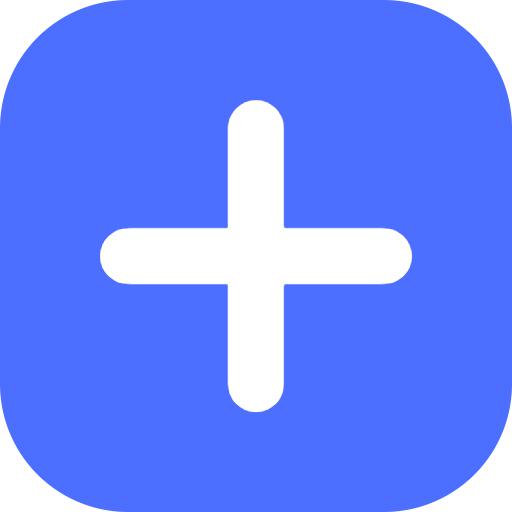
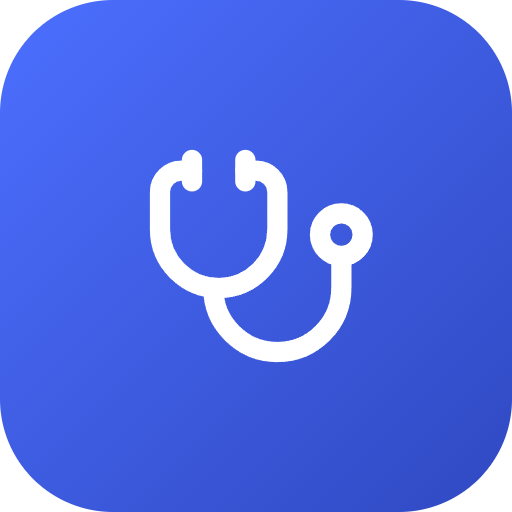
Полоса окна PWA — цветом шапки, значок — без белых полей
**Полоса заголовка.** Её рисует система, а цвет берёт из `theme-color`; там стоял фирменный
синий `#4C6FFF`, и на тёмной теме с тёплыми обоями получалась ярко-синяя планка над коричневым
приложением — единственное место окна, не имеющее к нему отношения. Статическим значением это
не чинится: у приложения две темы и подкраска под обои, то есть цвет шапки — результат настроек
врача. Поэтому цвет спрашивается у самой шапки, и второго источника правды не появляется.

Своя мета вставляется первой в `<head>` (браузер берёт первую подходящую) и только когда есть
что записать. В `index.html` остаются две меты с `media` — они отвечают за время до первой
отрисовки, за публичный сайт, где шапки приложения нет, и за строку состояния Android.

Цвет приводится к `#rrggbb`: подкрашенная обоями поверхность считается через `color-mix`, и
браузер отдаёт её записью `color(srgb …)` — спецификация такую допускает, но полагаться, что её
разберёт система, рисующая полосу окна, не стоит. Незнакомая запись не подставляется наугад.

Замеры: светлая `#ffffff`, тёмная `#242424`, «Рассвет» с подкраской — `#fcf2ef` и `#302723`;
на лендинге своей меты нет, работают объявленные.

**Значок.** Был заглушкой — белый плюс на синем квадрате — и сохранён без альфа-канала, то есть
углы за скруглением оставались непрозрачно белыми: на панели задач и во вкладке вокруг значка
стояла белая рамка. Теперь значки рисуются `scripts/make-icons.mjs` из того же стетоскопа и того
[…]

diff --git a/src/lib/themeColorMeta.ts b/src/lib/themeColorMeta.ts
@@ -1,0 +1,69 @@
+/**
+ * Полоса заголовка установленного приложения красится в цвет **шапки приложения**.
+ *
+ * У окна PWA верхнюю полосу рисует система, а цвет берёт из `theme-color`. В манифесте стоял
+ * фирменный синий — и на тёмной теме с тёплыми обоями врач получал ярко-синюю планку над
+ * коричневым приложением: единственное место окна, не имеющее к нему никакого отношения.
+ *
+ * Статическим значением это не чинится: у приложения две темы и подкраска под обои, то есть цвет
+ * шапки — не константа, а результат настроек врача. Поэтому цвет **спрашивается у самой шапки**:
+ * что бы ни насчитали тема и обои, полоса окна получает ровно то же. Двух источников правды при
+ * этом не появляется — источник один, и он же нарисован на экране.
+ *
+ * До первой отрисовки и на публичном сайте, где шапки приложения нет вовсе, работают две меты из
+ * `index.html`, объявленные через `media`: светлая и тёмная. **Своя мета вставляется первой** —
+ * браузер берёт первую подходящую по документу, — и появляется только тогда, когда есть что в неё
+ * записать: пустая или поставленная заранее, она перебила бы обе объявленные и покрасила полосу
+ * не тем.
+ */
+
+const MARK = 'data-app-theme-color';
+
+/**
+ * Цвет шапки — в `#rrggbb`, и это не косметика.
+ *
+ * Под обоями поверхность считается через `color-mix`, а такой цвет браузер возвращает записью
+ * `color(srgb 0.188 0.151 0.138)`. Спецификация `theme-color` принимает любой CSS-цвет, но
+ * полагаться на то, что его разберёт и **система**, рисующая полосу окна, не стоит: не разберёт —
+ * полоса останется прежней, и понять почему будет не по чему. Шестнадцатеричную запись понимают
+ * все.
+ *
+ * Возвращает `null` для всего, чего не знает, — и для полупрозрачного: система ждёт сплошной цвет,
+ * а шапка приложения сплошная всегда.
+ */
+export function toHexColor(color: string): string | null {
+  const hex = (r: number, g: number, b: number) =>
+    '#' + [r, g, b].map((v) => Math.max(0, Math.min(255, Math.round(v))).toString(16).padStart(2, '0')).join('');
+
+  const rgb = color.match(/^rgba?\(\s*([\d.]+)[\s,]+([\d.]+)[\s,]+([\d.]+)\s*(?:[,/]\s*([\d.%]+)\s*)?\)$/i);
+  if (rgb) {
+    const alpha = rgb[4];
+    if (alpha !== undefined && Number.parseFloat(alpha) < (alpha.endsWith('%') ? 90 : 0.9)) return null;
+    return hex(Number(rgb[1]), Number(rgb[2]), Number(rgb[3]));
+  }
+
+  const srgb = color.match(/^color\(\s*srgb\s+([\d.]+)\s+([\d.]+)\s+([\d.]+)\s*(?:\/\s*([\d.]+)\s*)?\)$/i);
+  if (srgb) {
+    if (srgb[4] !== undefined && Number(srgb[4]) < 0.9) return null;
+    return hex(Number(srgb[1]) * 255, Number(srgb[2]) * 255, Number(srgb[3]) * 255);
+  }
+
+  return /^#[0-9a-f]{6}$/i.test(color) ? color.toLowerCase() : null;
+}
+
+export function syncThemeColorMeta(): void {
+  const header = document.querySelector<HTMLElement>('[class*="AppShell-header"]');
+  if (!header) return;
+
+  const color = toHexColor(getComputedStyle(header).backgroundColor);
+  if (!color) return;
+
+  let meta = document.head.querySelector<HTMLMetaElement>(`meta[${MARK}]`);
+  if (!meta) {
+    meta = document.createElement('meta');
+    meta.name = 'theme-color';
+    meta.setAttribute(MARK, '');
+    document.head.prepend(meta);
+  }
+  if (meta.content !== color) meta.content = color;
+}

diff --git a/src/lib/themeColorMeta.test.ts b/src/lib/themeColorMeta.test.ts
@@ -1,0 +1,39 @@
+import { describe, expect, it } from 'vitest';
+
+import { toHexColor } from './themeColorMeta';
+
+describe('цвет шапки для полосы окна', () => {
+  it('обычный rgb — в шестнадцатеричную запись', () => {
+    expect(toHexColor('rgb(255, 255, 255)')).toBe('#ffffff');
+    expect(toHexColor('rgb(36, 36, 36)')).toBe('#242424');
+  });
+
+  /* Под обоями поверхность считается через `color-mix`, и браузер отдаёт её именно так. */
+  it('color(srgb …) — тоже: это то, что возвращает подкрашенная обоями шапка', () => {
+    expect(toHexColor('color(srgb 0.188392 0.151333 0.137882)')).toBe('#302723');
+    expect(toHexColor('color(srgb 1 1 1)')).toBe('#ffffff');
+  });
+
+  it('непрозрачность близкая к единице — всё ещё сплошной цвет', () => {
+    expect(toHexColor('rgba(36, 36, 36, 1)')).toBe('#242424');
+    expect(toHexColor('color(srgb 0.1 0.1 0.1 / 0.95)')).toBe('#1a1a1a');
+  });
+
+  /* Полупрозрачное системе отдавать нельзя: она нарисует сплошную полосу непонятно какого цвета. */
+  it('полупрозрачное отвергается', () => {
+    expect(toHexColor('rgba(0, 0, 0, 0)')).toBeNull();
+    expect(toHexColor('rgba(36, 36, 36, 0.4)')).toBeNull();
+    expect(toHexColor('color(srgb 0.1 0.1 0.1 / 0.5)')).toBeNull();
+  });
+
+  it('незнакомое не подставляется наугад — тогда работают меты из index.html', () => {
+    expect(toHexColor('оранжевый')).toBeNull();
+    expect(toHexColor('lab(50% 40 59.5)')).toBeNull();
+    expect(toHexColor('')).toBeNull();
+  });
+
+  it('шестнадцатеричное пропускается как есть', () => {
+    expect(toHexColor('#242424')).toBe('#242424');
+    expect(toHexColor('#FFFFFF')).toBe('#ffffff');
+  });
+});

diff --git a/src/layouts/AppLayout.tsx b/src/layouts/AppLayout.tsx
@@ -1,5 +1,5 @@
 import { memo, useEffect } from 'react';
-import { AppShell } from '@mantine/core';
+import { AppShell, useMantineColorScheme } from '@mantine/core';
 
 import { HEADER_HEIGHT } from './shellMetrics';
 import { useScrollDirection } from '../components/layout/useScrollDirection';
@@ -14,6 +14,8 @@ import { Topbar } from '../components/layout/Topbar';
 import { useSidebarWidth } from '../components/layout/useSidebarWidth';
 import { ReminderWatcher } from '../features/reminders/ReminderWatcher';
 import classes from './AppLayout.module.css';
+import { syncThemeColorMeta } from '../lib/themeColorMeta';
+import { useAppearance } from '../features/appearance/AppearanceProvider';
 
 interface PageMetaEntry {
   match: (path: string) => boolean;
@@ -199,6 +201,20 @@ export function AppLayout() {
    */
   const isMobile = useMediaQuery('(max-width: 47.99em)');
   const showHeader = !isMobile || headerVisible || opened;
+
+  /*
+   * Полоса заголовка окна установленного приложения красится в цвет шапки — см. `themeColorMeta`.
+   *
+   * Считается после отрисовки, в `requestAnimationFrame`, и это не перестраховка: эффекты идут
+   * снизу вверх, то есть эффект оболочки выполняется **раньше** родительского `AppearanceProvider`,
+   * который и проставляет обои с подкраской. Спросив цвет сразу, мы получили бы прошлый.
+   */
+  const { colorScheme } = useMantineColorScheme();
+  const { settings } = useAppearance();
+  useEffect(() => {
+    const frame = requestAnimationFrame(syncThemeColorMeta);
+    return () => cancelAnimationFrame(frame);
+  }, [colorScheme, settings.wallpaper, settings.tint, settings.veil]);
 
   useEffect(() => {
     document.getElementById(SCROLL_ROOT_ID)?.scrollTo(0, 0);

diff --git a/index.html b/index.html
@@ -26,8 +26,19 @@
       устанавливать было нечего. Здесь они не страничные: манифест один на весь сайт.
     -->
     <link rel="manifest" href="/manifest.webmanifest" />
-    <meta name="theme-color" content="#4C6FFF" />
-    <link rel="apple-touch-icon" href="/icon-192.png" />
+    <!--
+      Цвет полосы заголовка окна PWA и строки состояния Android.
+
+      Две меты, а не одна: у приложения светлая и тёмная темы, и одно значение обязательно врёт про
+      одну из них. Значения — измеренный цвет самой шапки: белый в светлой, `#242424` в тёмной.
+      Дальше, когда оболочка отрисована, `themeColorMeta` вставляет перед ними свою мету с точным
+      цветом шапки — включая подкраску под обои, которой здесь знать неоткуда.
+    -->
+    <meta name="theme-color" content="#ffffff" media="(prefers-color-scheme: light)" />
+    <meta name="theme-color" content="#242424" media="(prefers-color-scheme: dark)" />
+    <!-- iOS накладывает маску сам и прозрачность заливает чёрным, поэтому значок для него
+         непрозрачный и во всю площадь — отдельный от значка приложения. -->
+    <link rel="apple-touch-icon" href="/apple-touch-icon.png" />
     <!-- prerender:meta:start -->
     <title>MedAssist — ассистент врача</title>
     <meta
